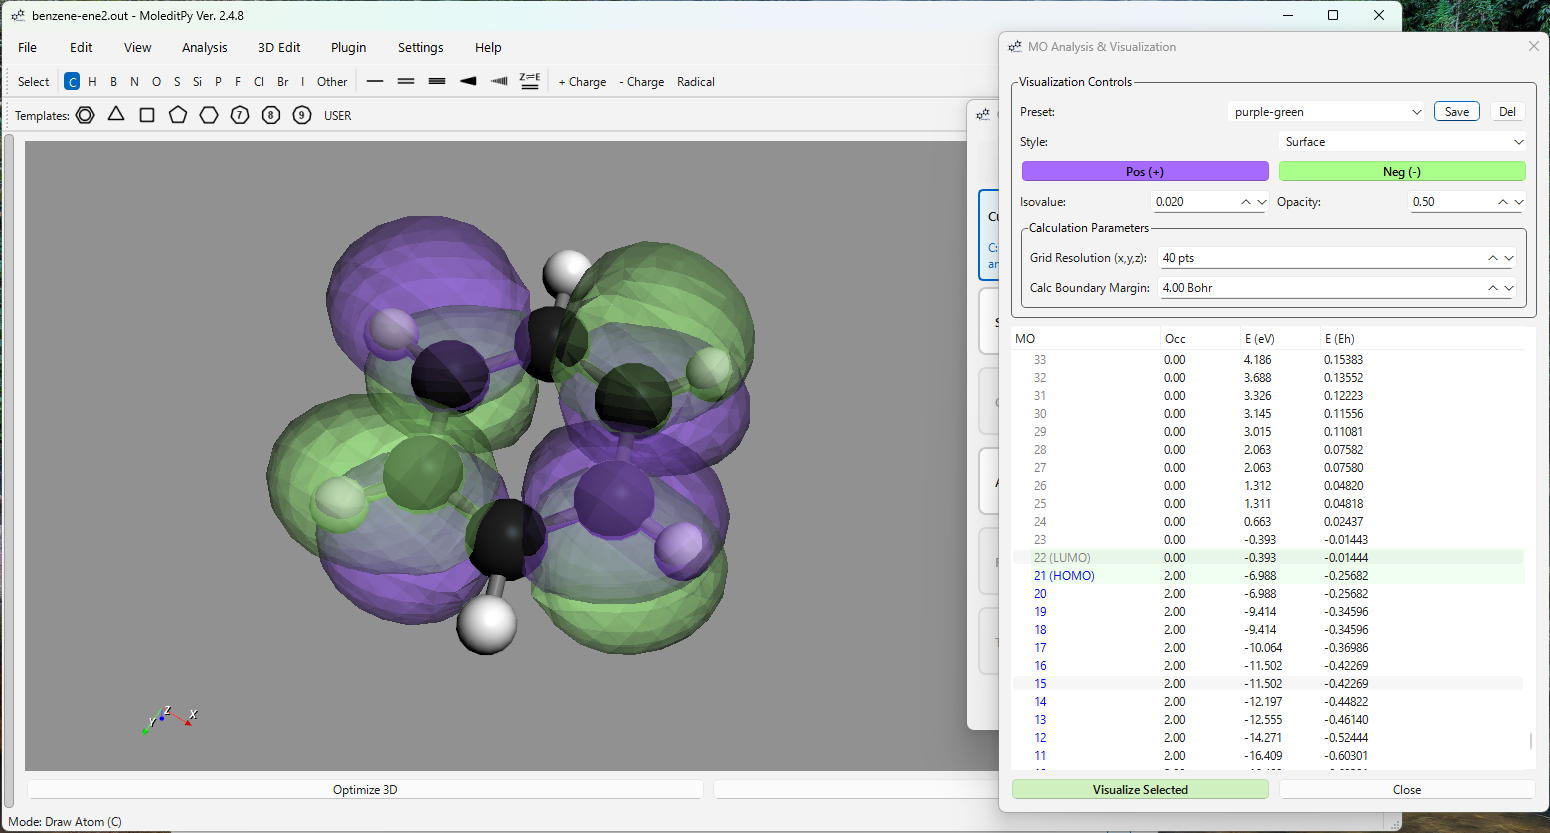
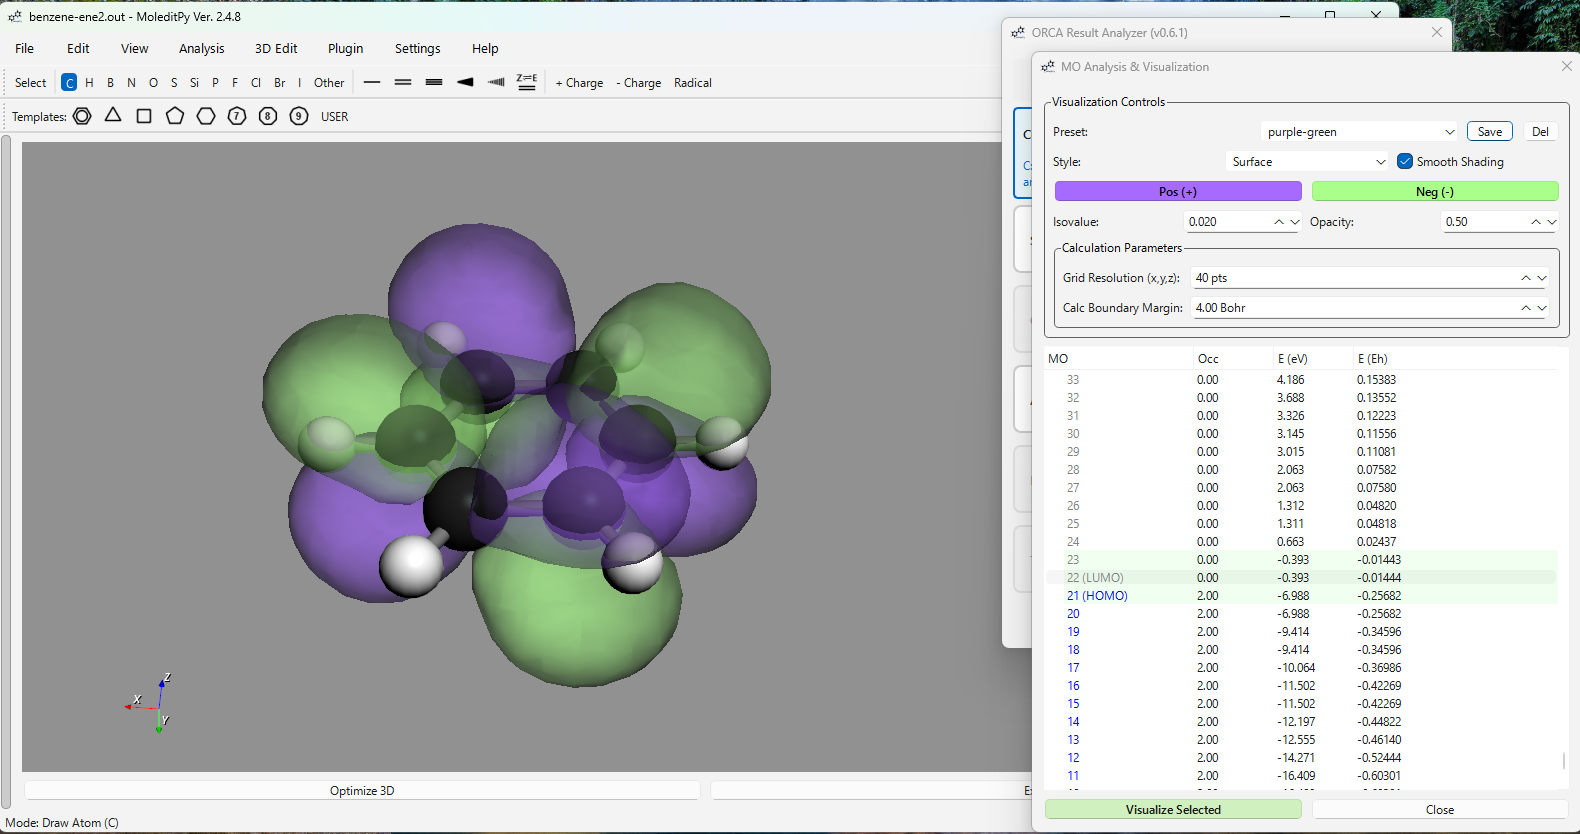
Add files via upload

diff --git a/orca_result_analyzer/mo_analysis.py b/orca_result_analyzer/mo_analysis.py
@@ -6,7 +6,7 @@ from PyQt6.QtWidgets import (QDialog, QVBoxLayout, QHBoxLayout, QPushButton, QLa
                              QTreeWidget, QTreeWidgetItem, QAbstractItemView, QMessageBox, 
                              QFileDialog, QProgressDialog, QTableWidget, QTableWidgetItem, 
                              QHeaderView, QGroupBox, QSpinBox, QDoubleSpinBox, QSplitter, QWidget,
-                             QFormLayout, QTreeWidgetItemIterator, QApplication, QColorDialog, QInputDialog, QComboBox)
+                             QFormLayout, QTreeWidgetItemIterator, QApplication, QColorDialog, QInputDialog, QComboBox, QCheckBox)
 from PyQt6.QtCore import Qt
 from PyQt6.QtGui import QColor, QBrush
 import json
@@ -80,6 +80,10 @@ class MODialog(QDialog):
         self.combo_style = QComboBox()
         self.combo_style.addItems(["Surface", "Wireframe", "Points"])
         h_style.addWidget(self.combo_style)
+        
+        self.check_smooth = QCheckBox("Smooth Shading")
+        self.check_smooth.setChecked(True)
+        h_style.addWidget(self.check_smooth)
         vis_layout.addLayout(h_style)
         
         h_colors = QHBoxLayout()
@@ -114,6 +118,7 @@ class MODialog(QDialog):
         
         # Connect changes to update view immediately if exists
         self.combo_style.currentTextChanged.connect(self.update_vis_only)
+        self.check_smooth.toggled.connect(self.update_vis_only)
         self.spin_iso.valueChanged.connect(self.update_vis_only)
         self.spin_opacity.valueChanged.connect(self.update_vis_only)
         
@@ -482,7 +487,7 @@ class MODialog(QDialog):
     def load_settings(self):
         self.settings_file = os.path.join(os.path.dirname(__file__), "settings.json")
         self.presets = {"Default": {
-            "iso": 0.02, "opacity": 0.5, "style": "Surface", "color_p": "#ff0000", "color_n": "#0000ff"
+            "iso": 0.02, "opacity": 0.5, "style": "Surface", "color_p": "#ff0000", "color_n": "#0000ff", "smooth_shading": True
         }}
         
         if os.path.exists(self.settings_file):
@@ -526,7 +531,8 @@ class MODialog(QDialog):
             
         mo_settings = {
             "presets": {k:v for k,v in self.presets.items() if k != "Default"},
-            "last_preset": self.combo_presets.currentText()
+            "last_preset": self.combo_presets.currentText(),
+            "smooth_shading": self.check_smooth.isChecked()
         }
         all_settings["mo_settings"] = mo_settings
         
@@ -546,7 +552,8 @@ class MODialog(QDialog):
             "opacity": self.spin_opacity.value(),
             "style": self.combo_style.currentText(),
             "color_p": self.get_color_hex('p'),
-            "color_n": self.get_color_hex('n')
+            "color_n": self.get_color_hex('n'),
+            "smooth_shading": self.check_smooth.isChecked()
         }
         
         self.presets[name] = data
@@ -596,6 +603,8 @@ class MODialog(QDialog):
         self.set_btn_color(self.btn_color_p, cp)
         self.set_btn_color(self.btn_color_n, cn)
         
+        self.check_smooth.setChecked(data.get("smooth_shading", True))
+        
         self.update_vis_only()
         self.save_settings() # Save last used
 
@@ -634,5 +643,5 @@ class MODialog(QDialog):
         vis = CubeVisualizer(mw)
         if vis.load_file(path):
             vis.show_iso(self.spin_iso.value(), opacity=self.spin_opacity.value(), 
-                         color_p=cp, color_n=cn, style=style)
+                         color_p=cp, color_n=cn, style=style, smooth_shading=self.check_smooth.isChecked())
             mw.plotter.render()

diff --git a/orca_result_analyzer/vis.py b/orca_result_analyzer/vis.py
@@ -94,7 +94,7 @@ class CubeVisualizer:
         
         return grid
 
-    def show_iso(self, isovalue=0.02, color_p='red', color_n='blue', opacity=0.5, style='surface'):
+    def show_iso(self, isovalue=0.02, color_p='red', color_n='blue', opacity=0.5, style='surface', smooth_shading=True):
         if not self.current_grid: return
         
         self.plotter.remove_actor("mo_iso_p")
@@ -103,11 +103,13 @@ class CubeVisualizer:
         try:
             iso_p = self.current_grid.contour([isovalue], scalars="values")
             if iso_p.n_points > 0:
-                self.plotter.add_mesh(iso_p, color=color_p, opacity=opacity, name="mo_iso_p", style=style, point_size=5)
+                self.plotter.add_mesh(iso_p, color=color_p, opacity=opacity, name="mo_iso_p", 
+                                      style=style, point_size=5, smooth_shading=smooth_shading)
                 
             iso_n = self.current_grid.contour([-isovalue], scalars="values")
             if iso_n.n_points > 0:
-                self.plotter.add_mesh(iso_n, color=color_n, opacity=opacity, name="mo_iso_n", style=style, point_size=5)
+                self.plotter.add_mesh(iso_n, color=color_n, opacity=opacity, name="mo_iso_n", 
+                                      style=style, point_size=5, smooth_shading=smooth_shading)
                 
             self.plotter.render()
         except Exception as e:

diff --git a/orca_result_analyzer/__init__.py b/orca_result_analyzer/__init__.py
@@ -1,7 +1,7 @@
 import os
 
 PLUGIN_NAME = "ORCA Result Analyzer"
-PLUGIN_VERSION = "0.6.0"
+PLUGIN_VERSION = "0.6.1"
 PLUGIN_AUTHOR = "HiroYokoyama"
 PLUGIN_DESCRIPTION = "Comprehensive analyzer for ORCA output files (.out, .log). Includes Vibrational, MO, TDDFT, and NMR analysis."
 

diff --git a/README.md b/README.md
@@ -17,29 +17,35 @@ Real-time convergence visualization for SCF energy cycles.
 - **Interactive Tools**: Full zoom, pan, and save support via an integrated Matplotlib toolbar.
 
 ### 2. MO Analysis
-- **Levels**: View orbital energies and occupancy.
-- **Visualization**: Generate and view 3D Cubes for selected orbitals (Isosurfaces).
+- **Levels**: View orbital energies and occupancy with HOMO/LUMO identification.
+- **Visualization**: Generate 3D Cubes (isosurfaces) with **Smooth Shading** and adjustable opacity.
+- **Presets**: Save and manage visualization presets (colors, isovalues, styles).
 - **Advanced Support**: Successfully handles S, P, D, F, and G shells (L=4).
+- **Feedback**: Integrated warning system identifies missing ORCA output keywords required for cube generation.
 
 ![MO Analysis](img/mo.png)
 
 ### 3. Optimization / Scan
 Analyze **Geometry Optimizations** and **Relaxed Surface Scans**.
 - **Interactive Graph**: Plot Energy vs. Step. Click points to update the 3D structure.
-- **Animation**: Play/Pause trajectory animations and export as GIFs.
+- **Display Modes**: Toggle between **Absolute** and **Relative** energy (kJ/mol, kcal/mol, eV, Eh).
+- **Log Scale**: Supports log-scale visualization for relative energy changes.
+- **Animation**: Play/Pause trajectory animations with adjustable FPS.
+- **Export**: Save plots as images or export the full 3D animation as high-quality **GIFs**.
 
 ![Optimization](img/opt.png)
 
 ### 4. Forces
 Analyze structural forces for the current structure or the entire trajectory.
 - **Historical Gradients**: Capture and display force vectors for **every** step of an optimization or scan.
-- **Visualization Controls**: Toggle vector visibility and use **Auto Scale** to optimize vector size for small gradients.
+- **Visualization Controls**: **Auto Scale** feature automatically optimizes vector size for visibility, especially for small gradients.
 - **Step-by-Step Navigation**: Precise control with `<` and `>` buttons or the trajectory slider.
 - **Convergence Tracking**: Multi-line display of **RMS/MAX Gradient** and **RMS/MAX Step**, color-coded (**Green for YES**, **Red for NO**).
+- **Data Table**: Full breakdown of gradients, force components, and magnitudes.
 
 ### 5. Atomic Charges
-- **Populations**: Mulliken, Loewdin, and Hirshfeld populations (if available).
-- **3D Coloring**: Color atoms in the 3D viewer based on charge value.
+- **Populations**: Mulliken, Loewdin, Hirshfeld, and **NBO** populations (if available).
+- **3D Coloring**: Color atoms in the 3D viewer based on charge value or population type.
 
 ![Atomic Charges](img/charge.png)
 
@@ -48,29 +54,35 @@ Analyze structural forces for the current structure or the entire trajectory.
 
 ### 7. Frequencies
 Visualize vibrational modes and spectra.
-- **IR/Raman**: Stick and broadened spectra plots.
+- **IR/Raman**: Stick and broadened spectra plots with interactive peak labels.
 - **Visualization**: Animated vibrational modes with vector arrows.
 
 ![Frequencies](img/freq.png)
 
 ### 8. Thermochemistry
 Detailed analysis of thermodynamic properties based on frequency calculations.
-- **Broad Summary**: Access Electronic Energy, ZPE, Enthalpy (H), Gibbs Free Energy (G).
-- **Detailed Corrections**: Optional breakdown of vibrational, rotational, and translational contributions.
+- **Broad Summary**: Electronic Energy, ZPE, Enthalpy (H), Gibbs Free Energy (G).
+- **Detailed Corrections**: Optional breakdown of **vibrational, rotational, and translational** contributions to energy and entropy.
 
 ### 9. TDDFT
 Analyze electronic excitations and absorption spectra.
-- **Spectra**: Absorption and CD spectra with Gaussian broadening and transition analysis.
+- **Spectra**: **Absorption** and **CD** (Circular Dichroism) spectra with Gaussian broadening.
+- **Controls**: Adjustable broadening (Sigma) and peak-stick overlays.
 
 ### 10. NMR
 Advanced NMR chemical shielding validation and visualization.
-- **Stick Spectrum**: Nucleus-specific stick spectra (1H, 13C, etc.) with experimental reference standards and equivalent atom merging.
-- **Interactive Sync**: Selecting peaks in the spectrum highlights corresponding atoms in the 3D viewer (and vice-versa).
+- **Stick Spectrum**: Nucleus-specific stick spectra (1H, 13C, etc.) with experimental reference standards (TMS, CDCl3, DMSO-d6, etc.).
+- **Custom References**: Add and manage custom reference standards (delta_ref and sigma_ref).
+- **Equivalent Atom Merging**: Manually or automatically merge equivalent atoms into single peaks with persistent storage.
+- **Interactive Sync**: Robust bidirectional synchronization—selecting peaks in the spectrum highlights atoms in 3D (and vice-versa).
+
+![NMR](img/nmr.png)
 
 ## Interface & Usability
-- **Logical Workflow**: Buttons are grouped by task: Electronic -> Geometry -> Properties -> Spectroscopy.
-- **Concise UI**: Clean, professional labels and modeless windows for side-by-side editing.
-- **Keyboard Shortcuts**: `Ctrl+O` (Open), `Ctrl+R` (Reload).
+- **Logical Workflow**: Buttons grouped by task: Electronic -> Geometry -> Properties -> Spectroscopy.
+- **Modeless Design**: All analysis windows are modeless, allowing side-by-side comparison and 3D viewer interaction.
+- **Keyboard Shortcuts**: `Ctrl+O` (Open), `Ctrl+R` (Reload), `Ctrl+W` (Close Window).
+- **Persistence**: Remembers your presets, NMR references, and merged peaks across sessions.
 
 ## Installation
 Download from [Plugin Explorer](https://hiroyokoyama.github.io/moleditpy-plugins/explorer/?q=ORCA+Result+Analyzer).  
@@ -90,5 +102,3 @@ To ensure all features (especially **MO Cube Generation**) work correctly, inclu
 end
 ```
 *Note: Standard output is usually sufficient for Geometry and Energies, but Basis Set information is strictly required for generating cubes.*
-
-
